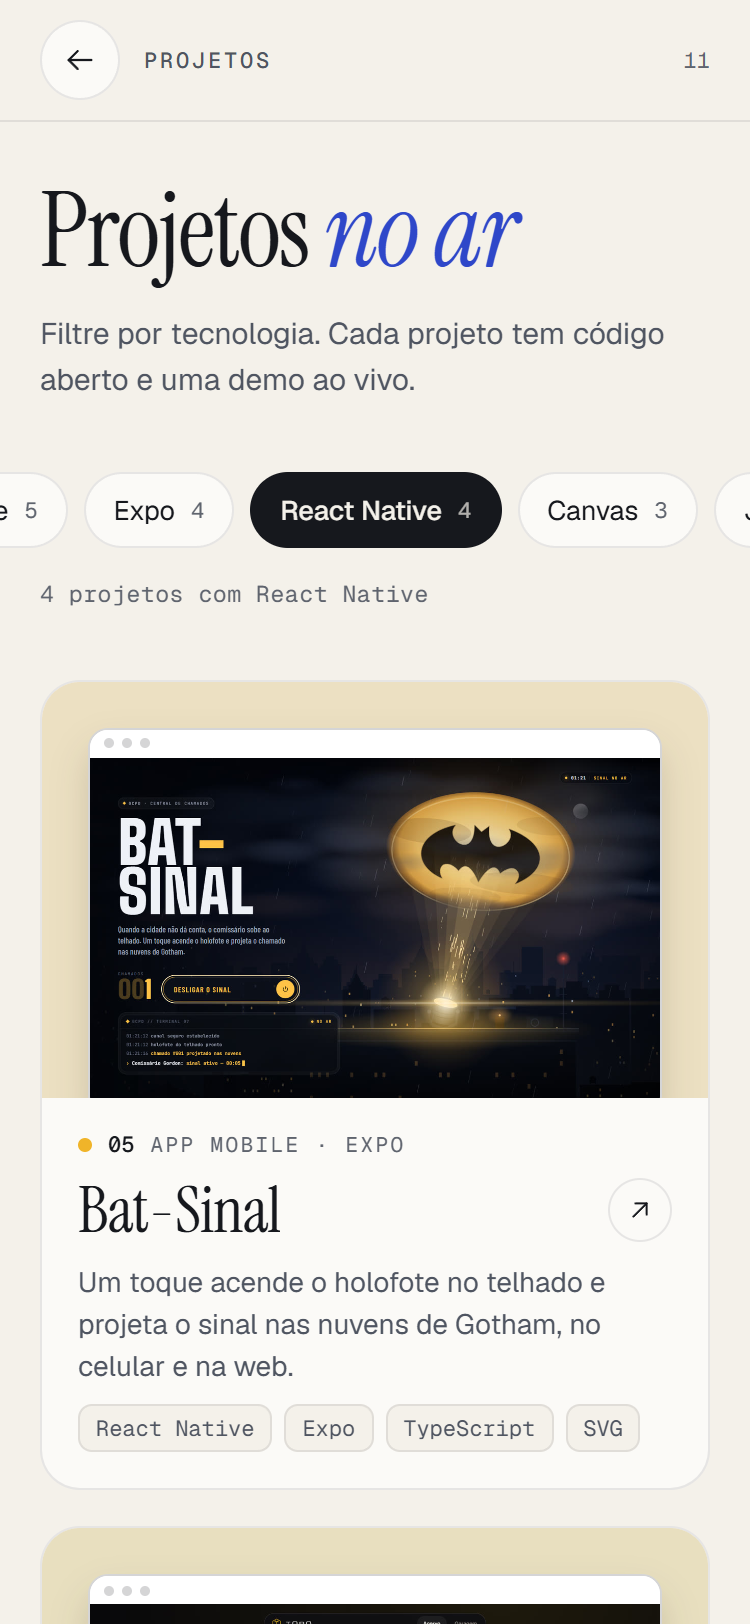
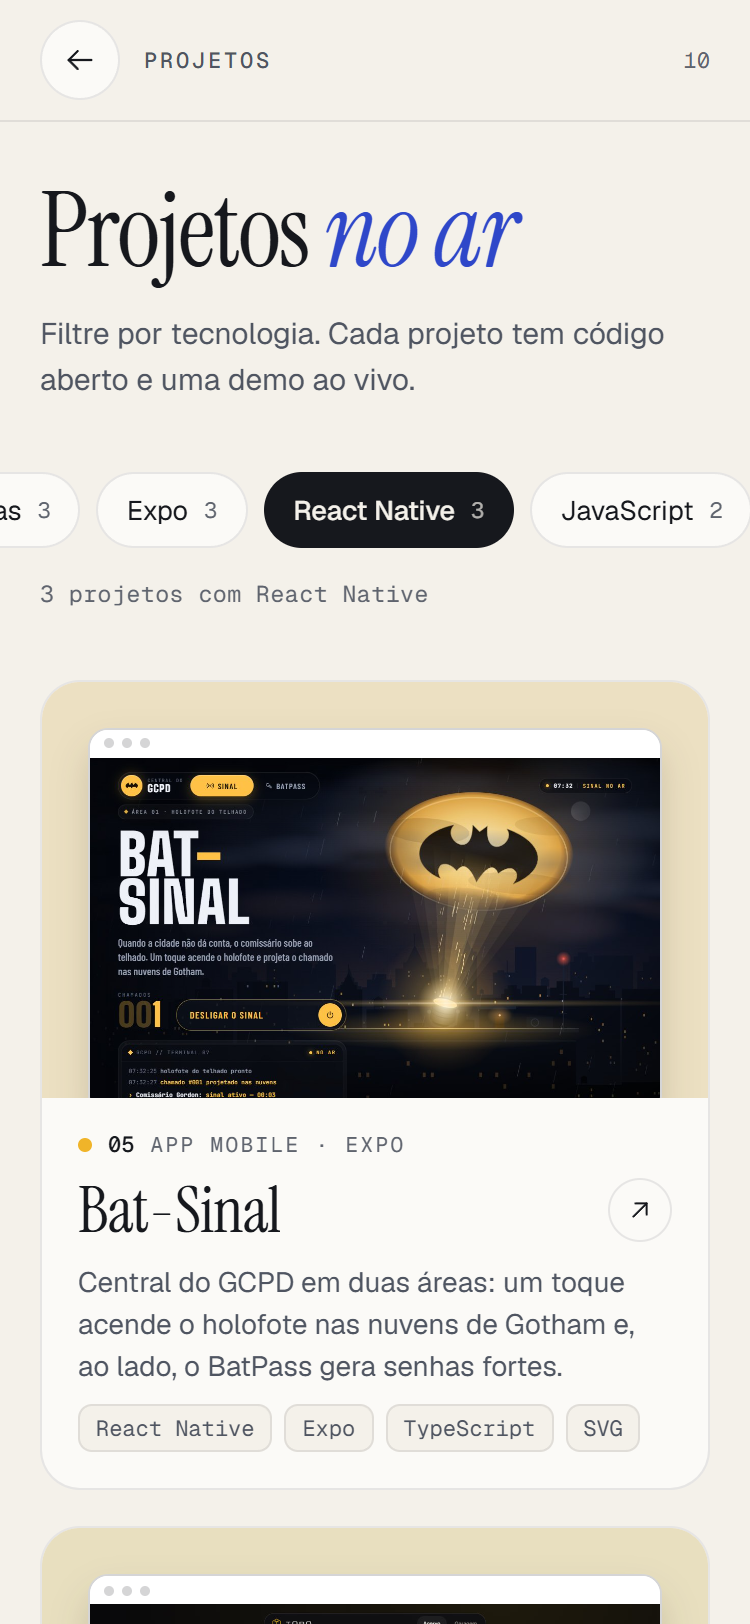
Junta o BatPass ao Bat-Sinal na lista de projetos
O gerador de senhas deixou de ser um app separado e virou a segunda
área do Bat-Sinal. O card do BatPass sai da lista e o do Bat-Sinal passa
a citar o gerador, com o link direto para bat-sinal/#batpass no README.

- projects.ts: remove o BatPass e atualiza texto e destaques do Bat-Sinal
- Prints novos do Bat-Sinal com a barra da Central do GCPD
- README e prints do portfólio com 10 projetos no ar

diff --git a/src/data/projects.ts b/src/data/projects.ts
@@ -112,14 +112,14 @@ export const projects: Project[] = [
     name: "Bat-Sinal",
     kicker: "App mobile · Expo",
     tagline:
-      "Um toque acende o holofote no telhado e projeta o sinal nas nuvens de Gotham, no celular e na web.",
+      "Central do GCPD em duas áreas: um toque acende o holofote nas nuvens de Gotham e, ao lado, o BatPass gera senhas fortes.",
     summary:
-      "Central de chamados do GCPD em React Native. A cena inteira, do céu à chuva e ao feixe de luz, é desenhada em SVG e animada com a API Animated no driver nativo.",
+      "App React Native com a cena de Gotham desenhada em SVG e o BatPass, o gerador de senhas que virou a segunda área do app (link direto em #batpass), com aleatoriedade criptográfica e entropia real testadas no runner nativo do Node.",
     highlights: [
-      "Skyline em três camadas com parallax, janelas que acendem e apagam e chuva em duas profundidades.",
-      "Ignição com estalo: o feixe sobe gaguejando como um arco de carbono antes de projetar o símbolo.",
+      "Skyline com parallax, chuva em duas profundidades e ignição com estalo antes de projetar o símbolo.",
       "Terminal do GCPD com log de eventos, status ao vivo e contador de chamados animado.",
-      "Vibração ao acionar, foco no teclado na web e respeito a reduzir movimento.",
+      "BatPass: Web Crypto com amostragem por rejeição, força em bits de entropia e histórico mascarado no aparelho.",
+      "Transição que mergulha no morcego projetado entre as áreas, foco no teclado e respeito a reduzir movimento.",
     ],
     stack: ["React Native", "Expo", "TypeScript", "SVG"],
     repo: repo("bat-sinal"),
@@ -232,27 +232,6 @@ export const projects: Project[] = [
     accent: "#4E9BD8",
     shot: require("../../assets/projects/ranktier.jpg"),
     shotMobile: require("../../assets/projects/ranktier-mobile.jpg"),
-  },
-  {
-    id: "batpass",
-    name: "BatPass",
-    kicker: "App mobile · Segurança",
-    tagline:
-      "Gerador de senhas com força medida em bits de entropia, aleatoriedade criptográfica e histórico que não sai do aparelho.",
-    summary:
-      "React Native com expo-crypto e amostragem por rejeição, sem Math.random. As regras de geração e entropia são puras e testadas com o runner nativo do Node.",
-    highlights: [
-      "Comprimento de 8 a 64, tipos de caractere e opção de evitar caracteres ambíguos.",
-      "Cada tipo ativo aparece ao menos uma vez, com embaralhamento Fisher-Yates.",
-      "Medidor de força com entropia real e estimativa de tempo de força bruta.",
-      "Histórico das últimas senhas copiadas, mascarado e salvo localmente.",
-    ],
-    stack: ["React Native", "Expo", "TypeScript", "SVG"],
-    repo: repo("bat-pass"),
-    live: pages("bat-pass"),
-    accent: "#8C93A6",
-    shot: require("../../assets/projects/batpass.jpg"),
-    shotMobile: require("../../assets/projects/batpass-mobile.jpg"),
   },
 ];
 

diff --git a/README.md b/README.md
@@ -1,6 +1,6 @@
 # Leandro Macedo · Portfólio
 
-Meu portfólio em forma de app, feito em React Native + Expo: os 11 projetos que estão no ar, com print real de cada um, filtro por tecnologia, detalhes, links e as ferramentas com que trabalho, no celular e na web.
+Meu portfólio em forma de app, feito em React Native + Expo: os 10 projetos que estão no ar, com print real de cada um, filtro por tecnologia, detalhes, links e as ferramentas com que trabalho, no celular e na web.
 
 **[Ver ao vivo →](https://leandromlmoreira.github.io/portfolio/)**
 
@@ -45,13 +45,12 @@ Meu portfólio em forma de app, feito em React Native + Expo: os 11 projetos que
 | [Lastro](https://github.com/leandromlmoreira/banking-api-fastapi) | Private banking sobre uma API FastAPI assíncrona com JWT | [ao vivo](https://leandromlmoreira.github.io/banking-api-fastapi/) |
 | [Aranhaverso](https://github.com/leandromlmoreira/spiderverse) | Revista em quadrinhos interativa com glitch dimensional | [ao vivo](https://leandromlmoreira.github.io/spiderverse/) |
 | [Forja de Heróis](https://github.com/leandromlmoreira/herolevel) | Cartas colecionáveis em pixel art forjadas a partir do nome e do XP | [ao vivo](https://leandromlmoreira.github.io/herolevel/) |
-| [Bat-Sinal](https://github.com/leandromlmoreira/bat-sinal) | App mobile em React Native com a cena de Gotham desenhada em SVG | [ao vivo](https://leandromlmoreira.github.io/bat-sinal/) |
+| [Bat-Sinal](https://github.com/leandromlmoreira/bat-sinal) | Central do GCPD em React Native: cena de Gotham em SVG e o gerador de senhas BatPass | [ao vivo](https://leandromlmoreira.github.io/bat-sinal/) · [BatPass](https://leandromlmoreira.github.io/bat-sinal/#batpass) |
 | [Toro](https://github.com/leandromlmoreira/lamborghini) | Showroom de supercarros em React Native + Expo Router com API via axios | [ao vivo](https://leandromlmoreira.github.io/lamborghini/) |
 | [Tomada](https://github.com/leandromlmoreira/video-capture) | Estúdio de vídeo de bolso com câmera no aparelho e MediaRecorder na web | [ao vivo](https://leandromlmoreira.github.io/video-capture/) |
 | [SQL Lab](https://github.com/leandromlmoreira/sql-lab) | Modelagem e SQL com playground que roda os scripts no navegador | [ao vivo](https://leandromlmoreira.github.io/sql-lab/) |
 | [JavaLab](https://github.com/leandromlmoreira/javalab) | Apps em Java abertos numa IDE que roda no navegador | [ao vivo](https://leandromlmoreira.github.io/javalab/) |
 | [RankTier](https://github.com/leandromlmoreira/ranktier) | RPG pixel art de duelos sobre uma biblioteca de patentes em JavaScript | [ao vivo](https://leandromlmoreira.github.io/ranktier/) |
-| [BatPass](https://github.com/leandromlmoreira/bat-pass) | Gerador de senhas com entropia real e aleatoriedade criptográfica | [ao vivo](https://leandromlmoreira.github.io/bat-pass/) |
 
 Os textos de cada projeto ficam em [`src/data/projects.ts`](src/data/projects.ts) e os prints em [`assets/projects/`](assets/projects); perfil e links em [`src/data/profile.ts`](src/data/profile.ts); grupos de skills em [`src/data/skills.ts`](src/data/skills.ts).
 
